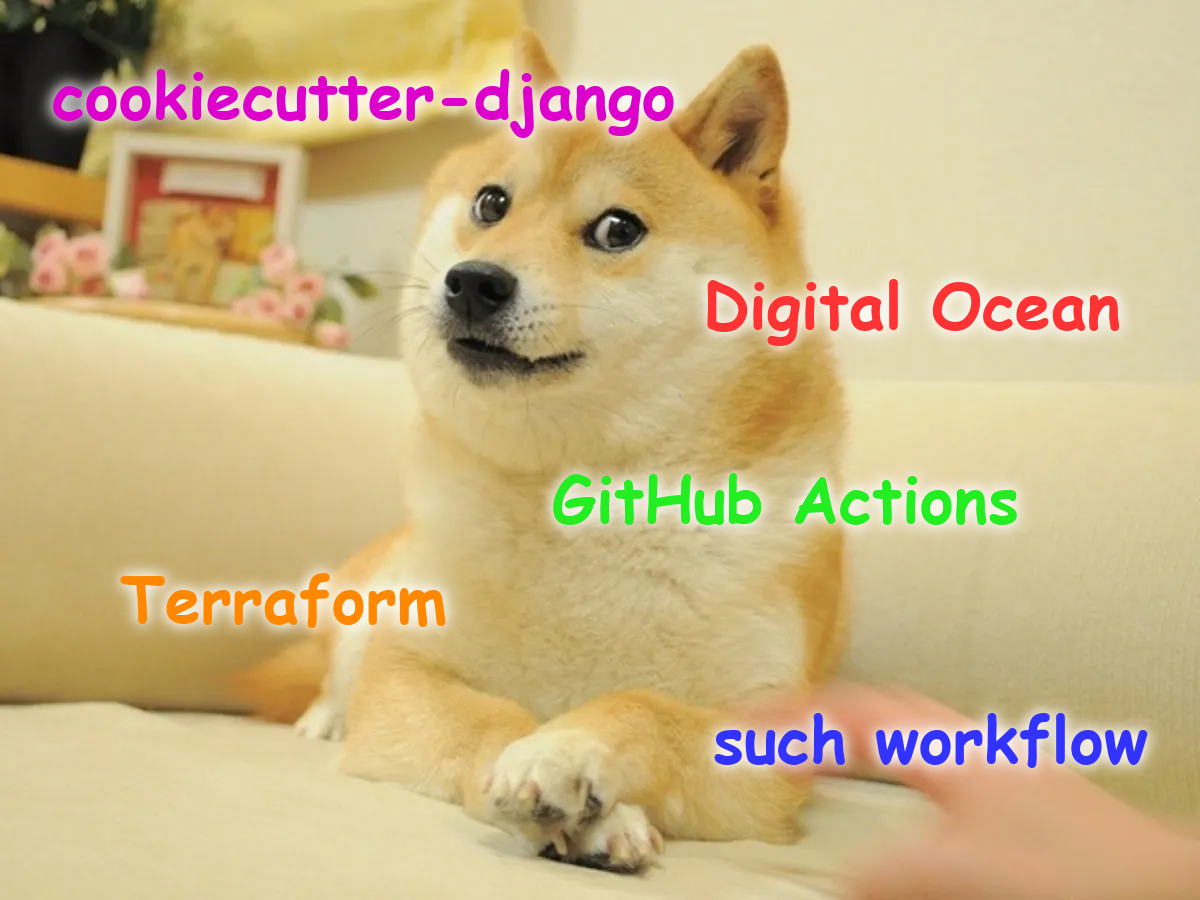
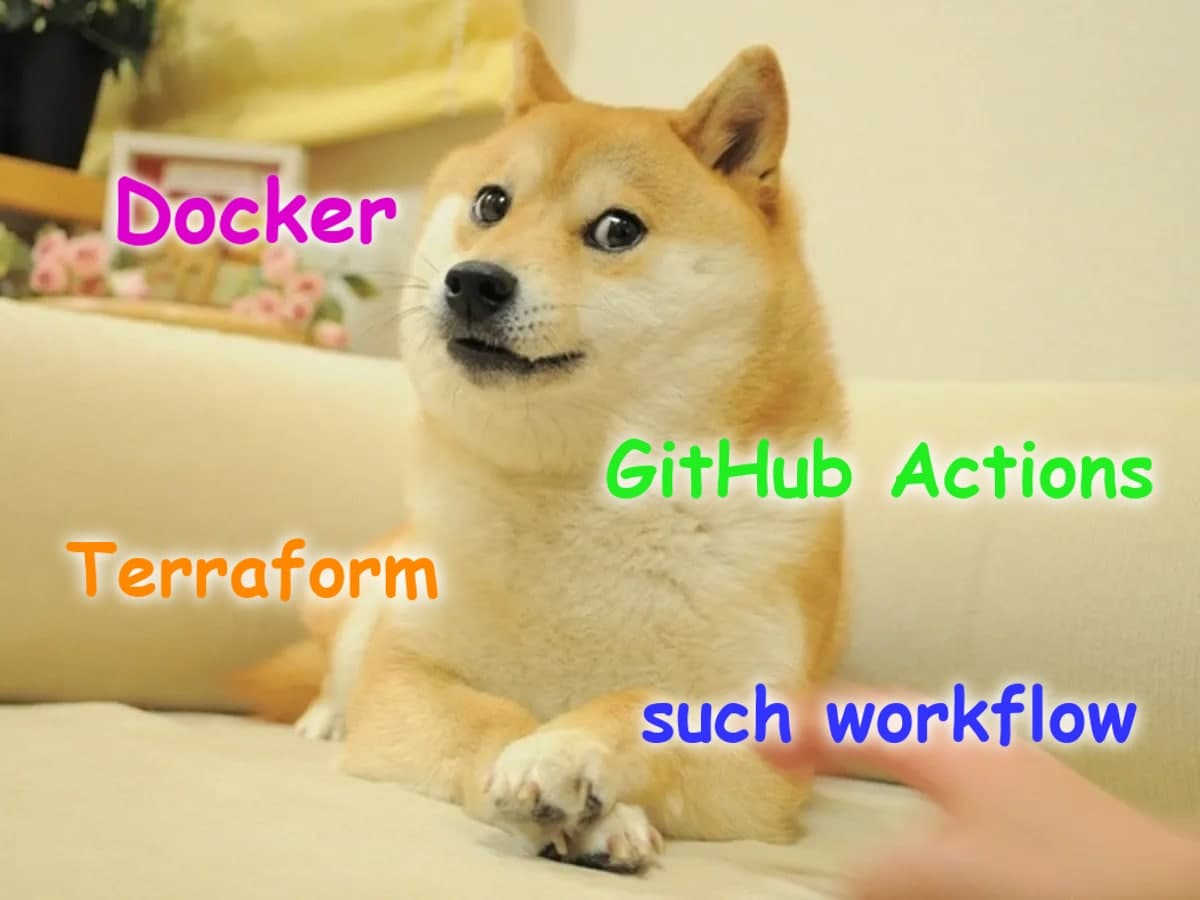
doge acronym from Digital Ocean to DOcker

diff --git a/README.md b/README.md
@@ -4,7 +4,7 @@
 [![Documentation Status](https://readthedocs.org/projects/cookiecutter-doge/badge/?version=latest)](https://cookiecutter-doge.readthedocs.io/en/latest/?badge=latest)
 [![GitHub license](https://img.shields.io/github/license/martibosch/cookiecutter-doge.svg)](https://github.com/martibosch/cookiecutter-doge/blob/main/LICENSE)
 
-Powered by [cookiecutter](https://github.com/cookiecutter/cookiecutter), cookiecutter-doge provides a template to generate Doge :dog2: projects. Doge (Digital Ocean, Github, tErraform) is a GitOps workflow to ensure multi-environment continuous integration/deployment (CI/CD) for docker-compose applications to Digital Ocean using Github and Terraform. It has been mainly developed to deploy Django applications based on the [cookiecutter-django](https://github.com/cookiecutter/cookiecutter-django) framework, but it can be extended to other docker-compose setups that require remote infrastructure.
+Powered by [cookiecutter](https://github.com/cookiecutter/cookiecutter), cookiecutter-doge provides a template to generate Doge :dog2: projects. Doge (DOcker, Github, tErraform) is a GitOps workflow to ensure multi-environment continuous integration/deployment (CI/CD) for docker-compose applications using Github and Terraform. It has been mainly developed to deploy Django applications based on the [cookiecutter-django](https://github.com/cookiecutter/cookiecutter-django) framework, but it can be extended to other docker-compose setups that require remote infrastructure. At present, the workflow only works on DigitalOcean, but it is easy to adapt it to other cloud providers.
 
 See the [documentation](https://cookiecutter-doge.readthedocs.io), [example project](https://github.com/martibosch/doge-hello-world) with a "Hello, World!" app (using [FastAPI](https://fastapi.tiangolo.com/)) and [its corresponding user guide](https://github.com/martibosch/doge-hello-world/blob/main/README.md).
 

diff --git a/docs/index.md b/docs/index.md
@@ -1,6 +1,6 @@
 # Welcome to cookiecutter-doge documentation
 
-Powered by [cookiecutter](https://github.com/cookiecutter/cookiecutter), cookiecutter-doge provides a template to generate Doge projects. Doge (Digital Ocean, Github, tErraform) is a GitOps workflow to continuously deploy multi-environment docker-compose applications to Digital Ocean using Github and Terraform.
+Powered by [cookiecutter](https://github.com/cookiecutter/cookiecutter), cookiecutter-doge provides a template to generate Doge projects. Doge (DOcker, Github, tErraform) is a GitOps workflow to continuously deploy multi-environment docker-compose applications using Github and Terraform. At present, the workflow only works on DigitalOcean, but it is easy to adapt it to other cloud providers.
 
 ## Project generation options
 
